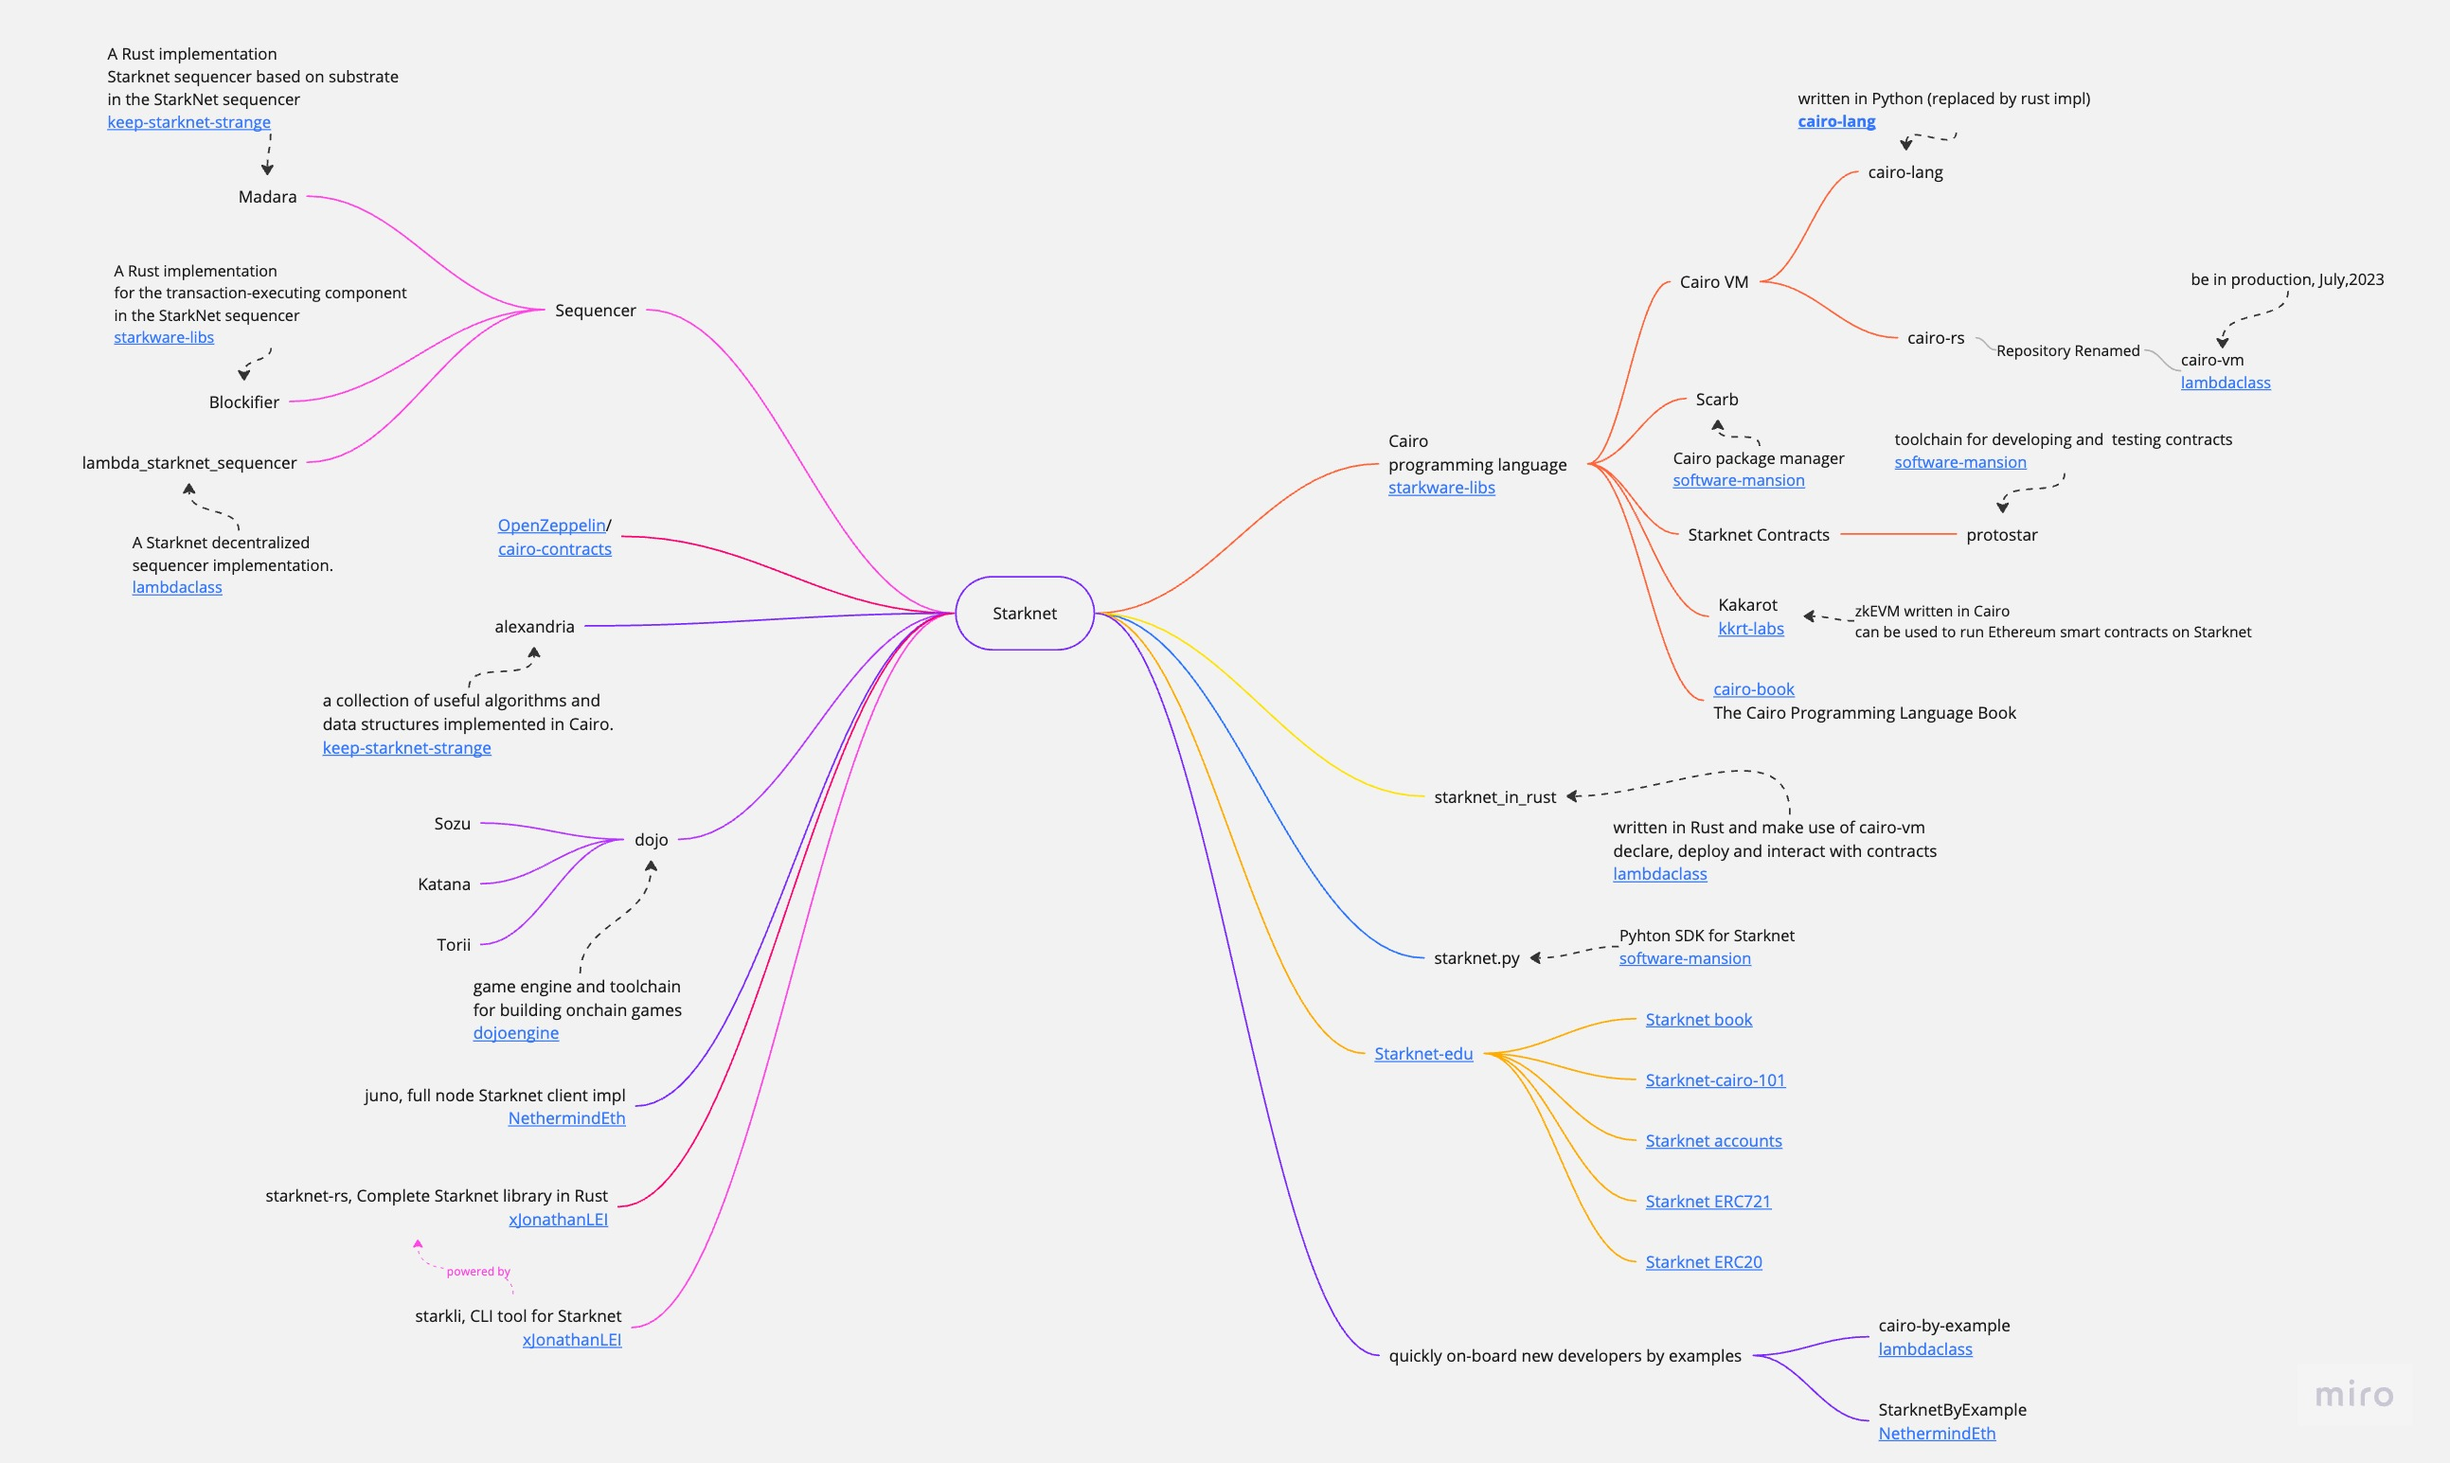
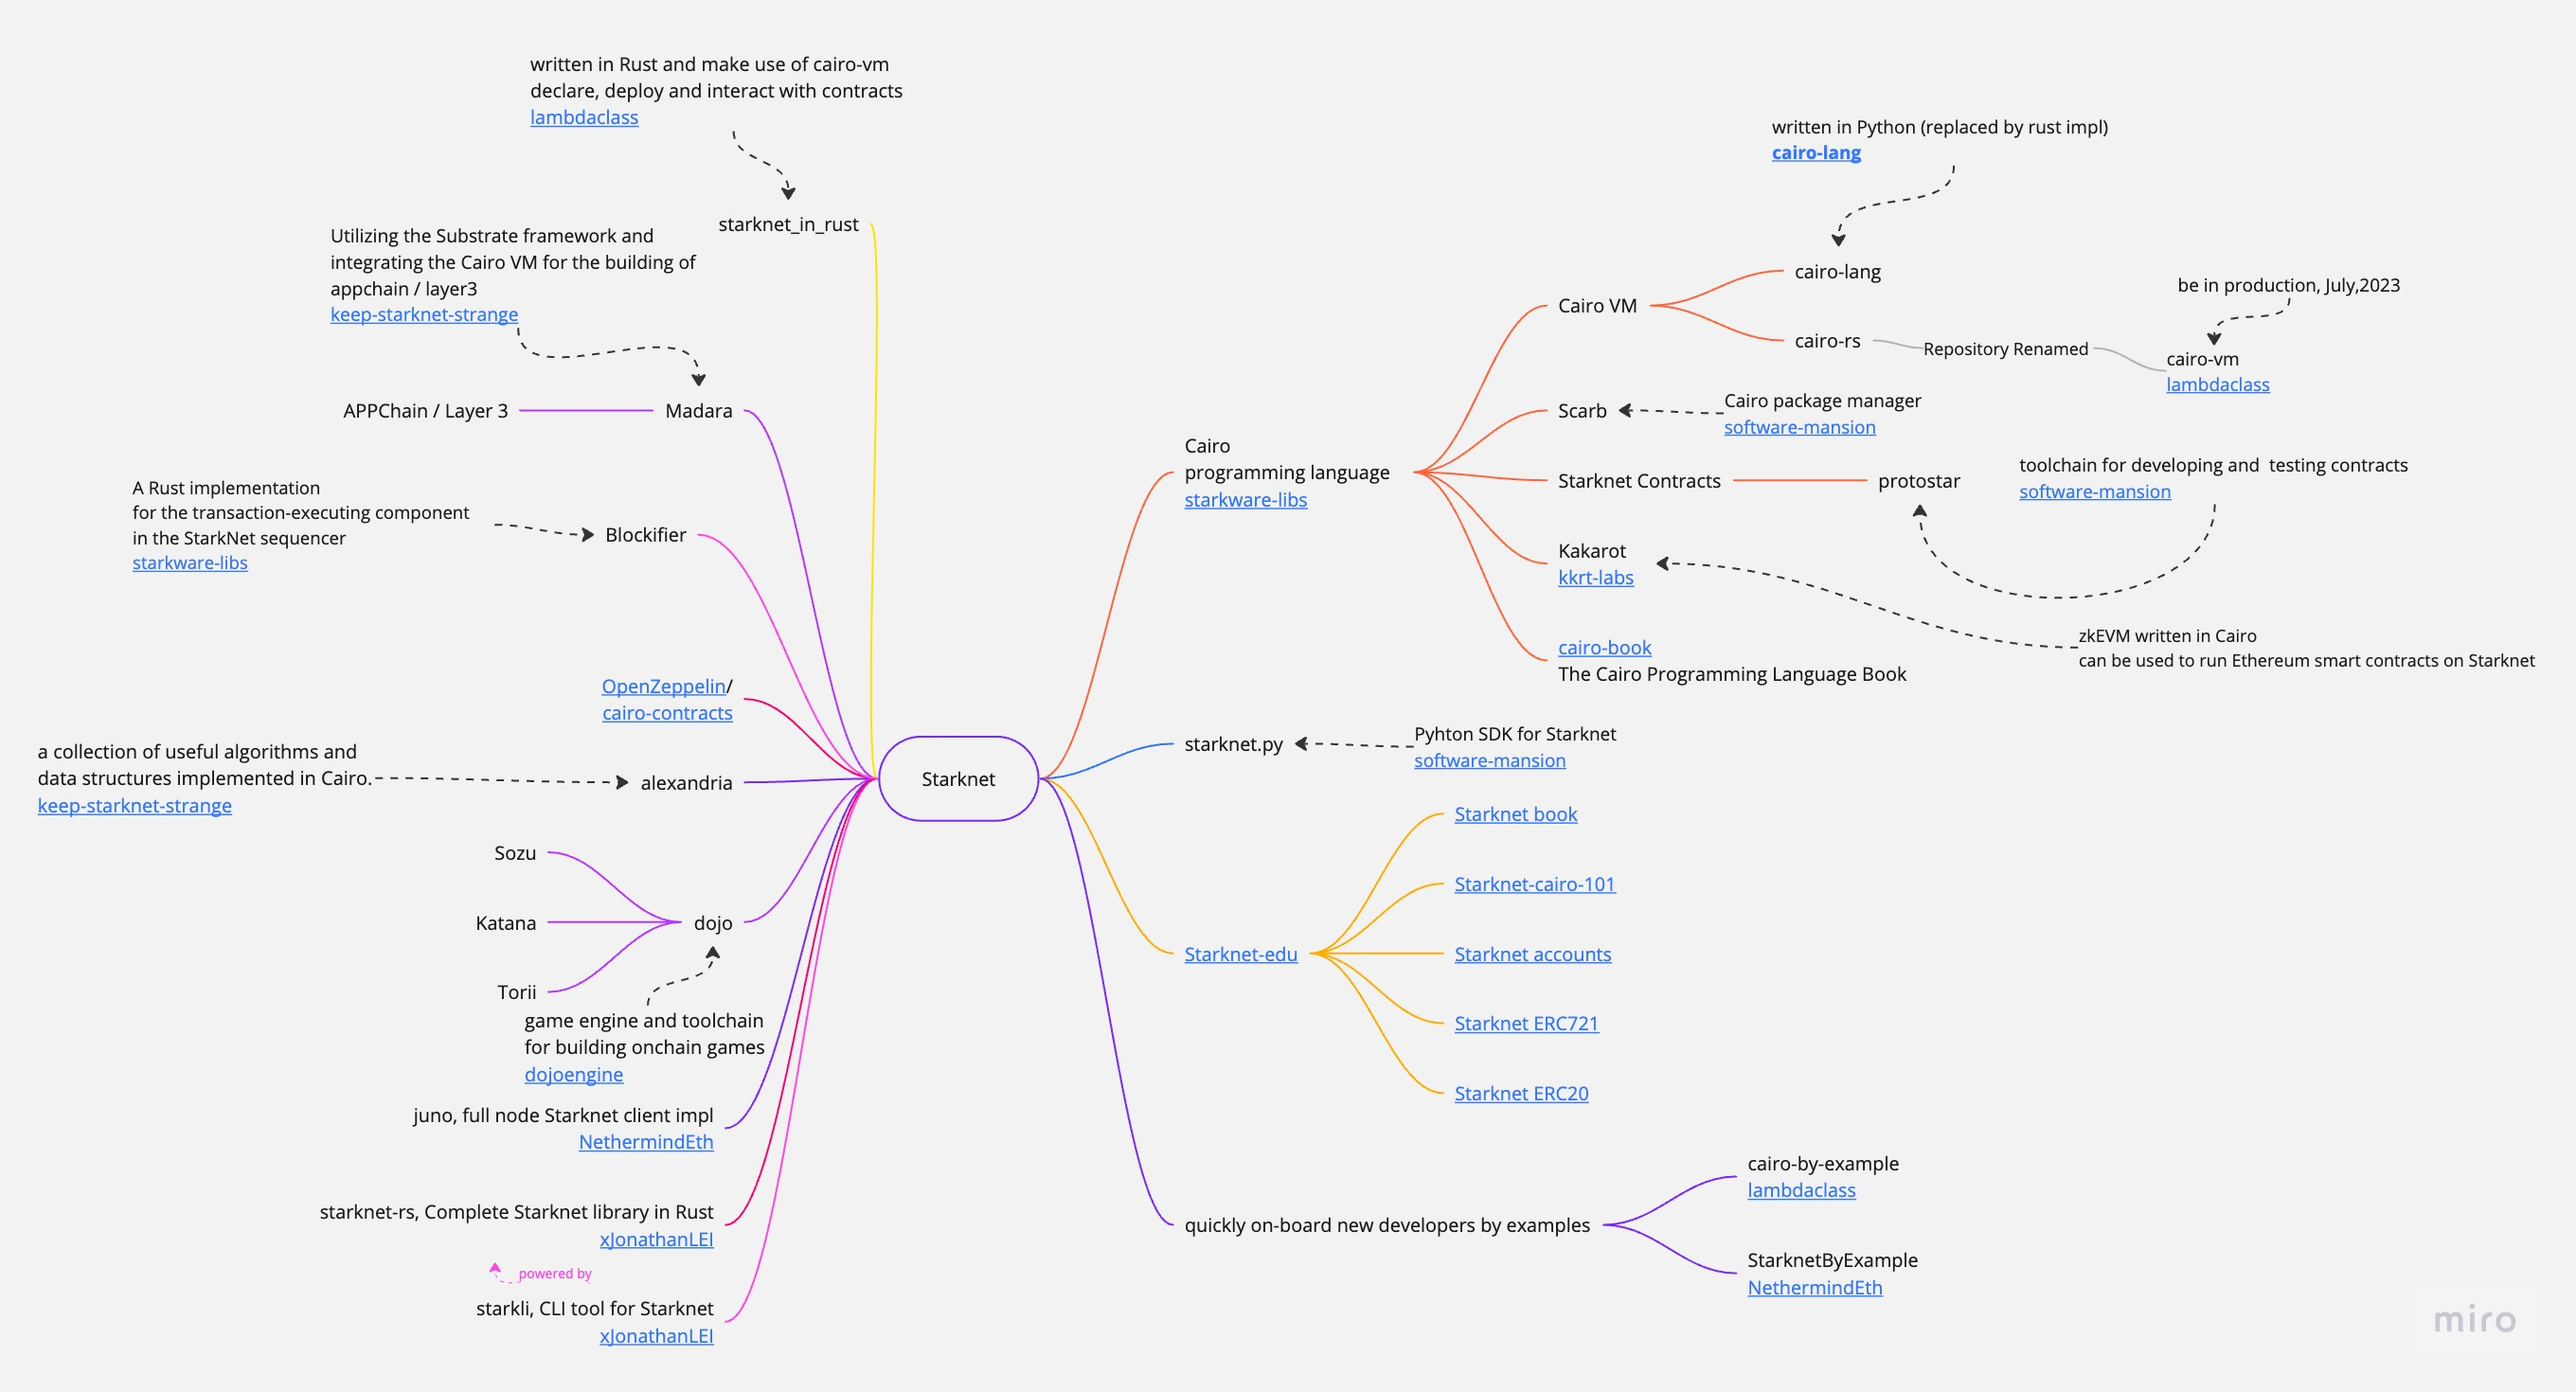
Update README with Madara and Blockifier implementations for Starknet

diff --git a/README.md b/README.md
@@ -33,10 +33,10 @@ The mind map is organized into the following categories:
   - [Starknet Accounts](#starknet-accounts)
   - [Starknet ERC721](#starknet-erc721)
   - [Starknet ERC20](#starknet-erc20)
+- [Madara](#madara)
+- [Blockifier](#blockifier)
 - [Sequencer](#sequencer)
-  - [Madara](#madara)
-  - [Blockifier](#blockifier)
-  - [lambda_starknet_sequencer](#lambda_starknet_sequencer)
+  - ~~[lambda_starknet_sequencer](#lambda_starknet_sequencer)~~
 - [OpenZeppelin/cairo-contracts](#openzeppelincairo-contracts)
 - [alexandria](#alexandria)
 - [dojo](#dojo)
@@ -123,28 +123,34 @@ https://github.com/starknet-edu
 - Starknet ERC721: https://github.com/starknet-edu/starknet-erc721
 - Starknet ERC20: https://github.com/starknet-edu/starknet-erc20
 
-## Sequencer
+## Madara
 
-- Madara
+Utilizing the Substrate framework and integrating the Cairo VM for the building of appchain / layer3.
 
-A Rust implementation Starknet sequencer based on substrate in the StarkNet sequencer
+Substrate is an open-source Rust framework to build customizable blockchains.
+
+The Cairo VM is specifically designed to efficiently generate Validity Proofs for program execution.
+
+By employing state tracking and a smart contract to verify these proofs on L2, appchain created by Madara ensures secure integration with Starknet.
 
 Repository:
 https://github.com/keep-starknet-strange/madara
 
-- Blockifier
+## Blockifier
 
 A Rust implementation for the transaction-executing component in the StarkNet sequencer
 
 Repository:
 https://github.com/starkware-libs/blockifier
 
-- lambda_starknet_sequencer
+## Sequencer
 
-A Starknet decentralized sequencer implementation
+- ~~lambda_starknet_sequencer~~
 
-Repository:
-https://github.com/lambdaclass/lambda_starknet_sequencer
+  A Starknet decentralized sequencer implementation
+
+  Repository:
+  https://github.com/lambdaclass/lambda_starknet_sequencer
 
 ## OpenZeppelin/cairo-contracts
 
